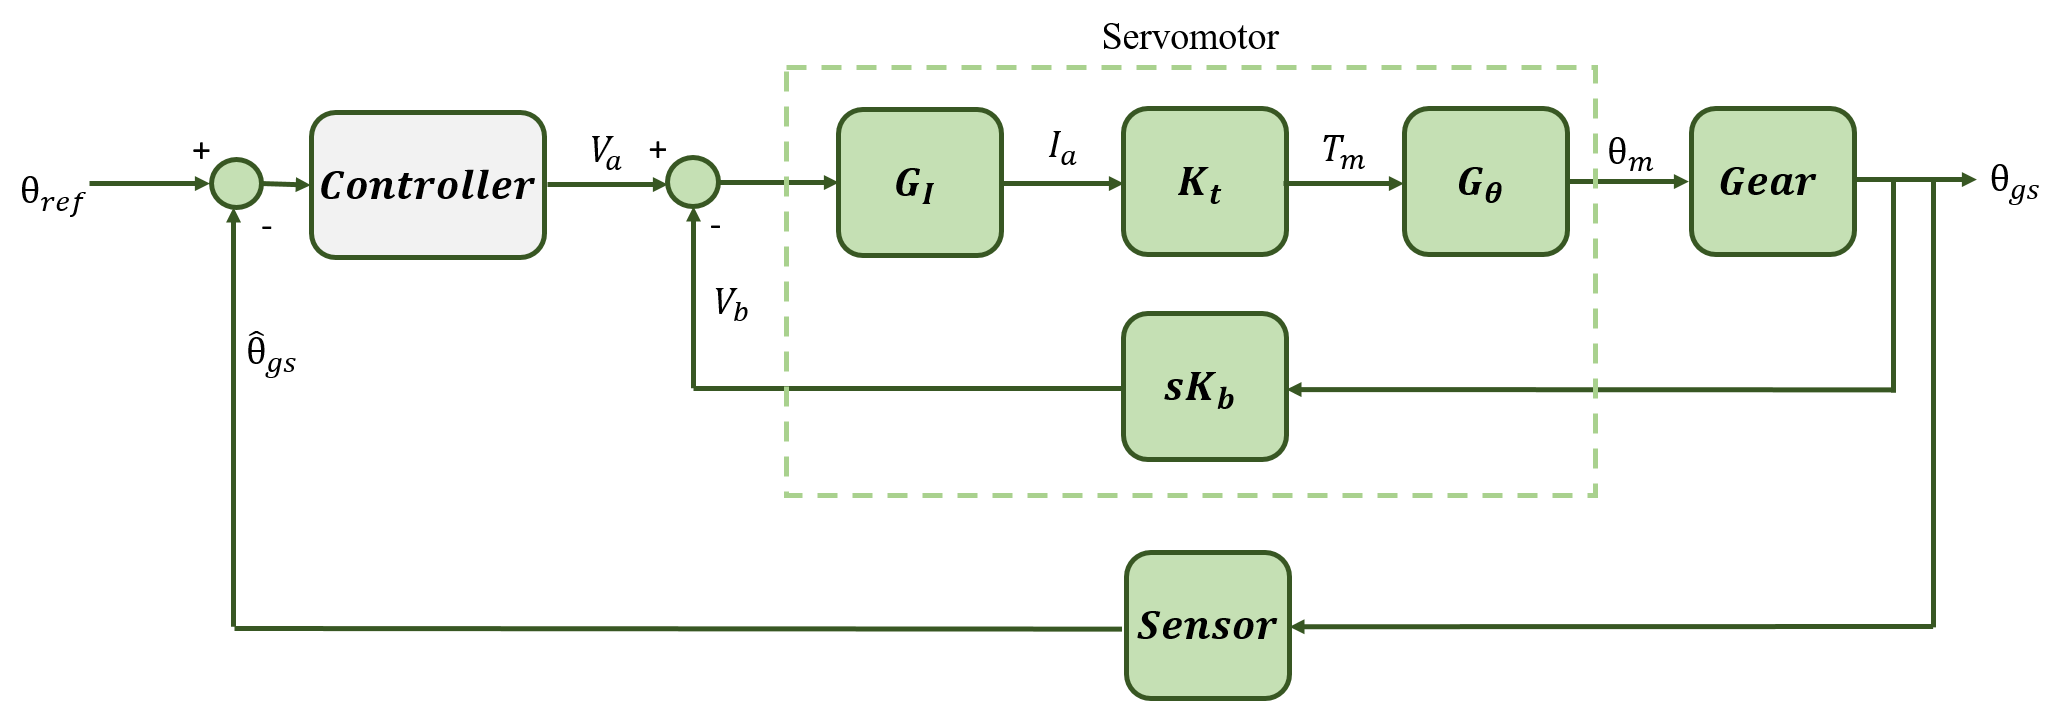
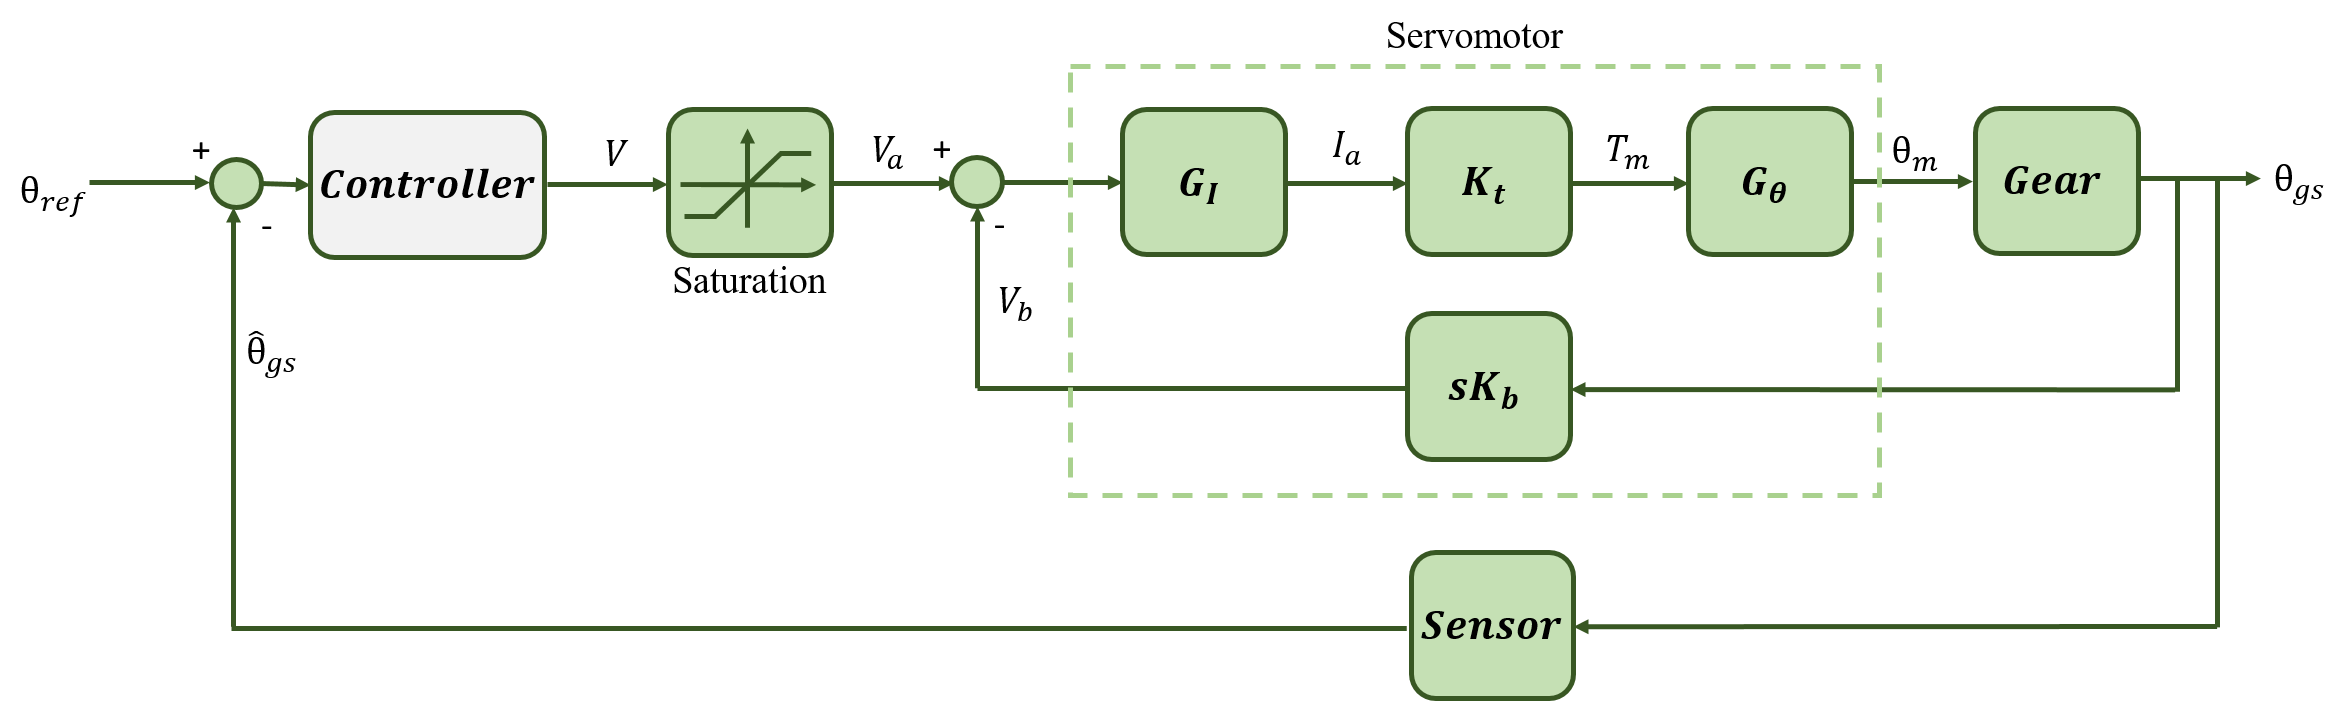
..

diff --git a/doc/presentation/slides/controller.tex b/doc/presentation/slides/controller.tex
@@ -1,4 +1,5 @@
-
+\subsection{Controller}
+%
 %\begin{frame}{Controller}{}
 %
 %  \begin{block}{PID}
@@ -24,10 +25,11 @@
 	  	\item Gear
 	  	\item Sensor
 	  	\item Controller
+	  	\item Saturation
 	  \end{itemize}
 
 	  \begin{figure}
-        \includegraphics[scale=0.26]{../report/figures/complete_model.png}
+        \includegraphics[scale=0.24]{../report/figures/complete_model.png}
       \end{figure}
   
   \end{block}
@@ -39,11 +41,11 @@
   \begin{block}{Moving Angle System:}
 
 	  \begin{itemize}
-	  	\item Servomotor
+	  	\item Servomotor - model with parameters from a paper
 	  \end{itemize}
 
 	  \begin{figure}
-        \includegraphics[scale=0.26]{../report/figures/servo+gear+noise+servomotor.png}
+        \includegraphics[scale=0.24]{../report/figures/servo+gear+noise+servomotor.png}
       \end{figure}
   
   \end{block}
@@ -56,7 +58,7 @@
 	  	\item Gear
 	  \end{itemize}
 	  \begin{figure}
-        \includegraphics[scale=0.26]{../report/figures/servo+gear+noise+gear.png}
+        \includegraphics[scale=0.24]{../report/figures/servo+gear+noise+gear.png}
       \end{figure}  
   \end{block}
 \end{frame}
@@ -70,7 +72,7 @@
 	  \end{itemize}
 
 	  \begin{figure}
-        \includegraphics[scale=0.26]{../report/figures/servo+gear+noise+sensor.png}
+        \includegraphics[scale=0.24]{../report/figures/servo+gear+noise+sensor.png}
       \end{figure}
   
   \end{block}
@@ -84,8 +86,23 @@
 	  	\item Controller
 	  \end{itemize}
 	  \begin{figure}
-        \includegraphics[scale=0.26]{../report/figures/servo+gear+noise+controller.png}
+        \includegraphics[scale=0.24]{../report/figures/servo+gear+noise+controller.png}
       \end{figure}
+  \end{block}
+\end{frame}
+
+%Saturation
+\begin{frame}{Modelling}{Moving Angle System}
+  \begin{block}{Moving Angle System:}
+
+	  \begin{itemize}
+	  	\item Saturation - threshold set from -5V to 5V
+	  \end{itemize}
+
+	  \begin{figure}
+        \includegraphics[scale=0.24]{../report/figures/servo+gear+noise+saturation.png}
+      \end{figure}
+  
   \end{block}
 \end{frame}
 
@@ -212,7 +229,7 @@
 	  \item Advantages:
 	  \begin{itemize}
 	  	\item Automatic Tuning Tool
-	  	\item Easier to design multiple controllers
+	  	\item Design multiple controllers
 	  	\item Adjust different parameters  	
 	  \end{itemize}
 	  \end{itemize}
